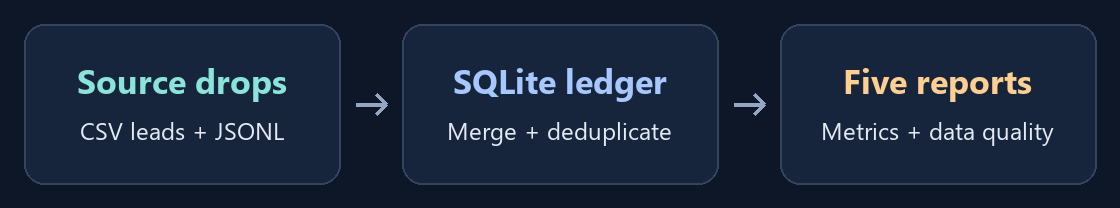
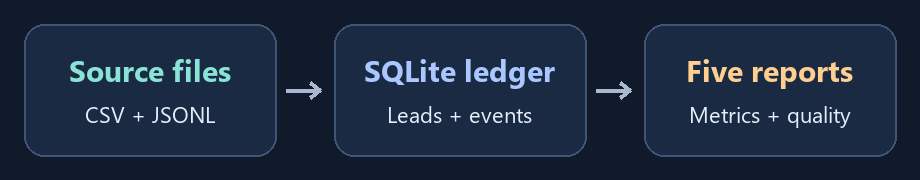
Improve README architecture and center pipeline diagram

diff --git a/README.md b/README.md
@@ -1,81 +1,52 @@
-# Agentic Universe: Junior SDE Take-Home (Data & Workflow)
+# Interaction Ledger & Reporting Pipeline
 
-Thanks for your interest in Agentic Universe. We build AI voice agents for insurers, lenders and
-consumer brands across India and APAC. Our platform has three layers:
+**Agentic Universe · Junior SDE take-home · Assignment A**
 
-- **Data:** leads, call events, dispositions and the interaction ledger that every client report
-  is built on.
-- **Workflow:** campaigns, scheduling, dialling, retries and callbacks, all orchestrated durably.
-- **Application:** dashboards, consoles and APIs.
+Import messy lead CSVs and out-of-order call events into SQLite, then generate five reproducible reports. Built for **Python 3.11+** with the standard library.
 
-This take-home focuses on **data** and **workflow**. **Pick one assignment.** Don't do both.
+<p align="center">
+  <img src="solution/assets/pipeline.png" alt="CSV leads and JSONL call events flow into a SQLite ledger, which produces five reports." width="460">
+</p>
 
-| | Assignment | You'll mostly be doing |
-|---|---|---|
-| **A** | [Interaction Ledger & Reporting Pipeline](assignment-a-data/README.md) | Messy-data ingestion, schema design, idempotent pipelines, exact metrics |
-| **B** | [Durable Campaign Dispatcher](assignment-b-workflow/README.md) | State machines, idempotency, failure handling, scheduling under constraints |
+[Quick start](#quick-start) · [Report outputs](#report-outputs) · [Design and test results](SUBMISSION.md) · [AI disclosure](AI_USAGE.md)
 
-Both are judged on the same bar. Pick the one that excites you more.
+## Quick start
 
-## Ground rules
+From the repository root, run this PowerShell demo against a fresh database. [Bash instructions](SUBMISSION.md#how-to-run) are also available.
 
-- **Time box:** plan for about **6–8 focused hours**. You have **72 hours** from when you receive
-  this. We know you have a life. If you run out of time, stop and tell us in `SUBMISSION.md`
-  what you'd do next. A well-explained partial solution beats a rushed complete one.
-- **Language:** Python 3.11+. Use any libraries you like; list them in `requirements.txt`.
-- **AI tools** (Claude, Cursor, Copilot, ChatGPT...) are **allowed**, as they would be on the
-  job. You must fill in [`AI_USAGE.md`](AI_USAGE.md) honestly. In the follow-up interview we'll
-  ask you to walk through your code and change it live. Submit only code you understand and can
-  defend.
-- **Ambiguity is intentional in places.** When the spec doesn't decide something, make a
-  reasonable call and write it down in `SUBMISSION.md`. Don't wait for an answer from us.
-- **Synthetic data only.** Everything here is generated. No real customer data is involved.
-
-## Getting started
-
-```bash
-python -m venv .venv && source .venv/bin/activate
-pip install -r requirements.txt
-# then follow your chosen assignment's README
+```powershell
+python assignment-a-data/tools/generate_data.py --seed 42 --scale small --out data
+$env:LEDGER_HMAC_KEY = python -c "import secrets; print(secrets.token_hex(32))"
+python -m solution --db demo.sqlite3 ingest data/drop_1 data/drop_2
+python -m solution --db demo.sqlite3 report --out reports
+python -m unittest discover -v
 ```
 
-`docker-compose.yml` starts a local Postgres if you want one (`docker compose up -d`). SQLite
-is equally acceptable.
+Reuse the same key for future imports into this database. The report command can run without the key.
 
-## What to submit
+## Architecture
 
-1. Push your work to a **private** GitHub or GitLab repository. Start from this repo and keep
-   its structure. Put your code in `solution/` (or a similar top-level folder) and keep the
-   original files unmodified.
-2. Your repo must include:
-   - `SUBMISSION.md`: fill in the template provided
-   - `AI_USAGE.md`: fill in the template provided
-   - Exact setup and run commands that work from a clean clone
-   - Tests, runnable with one command (for example `pytest`)
-3. Give read access to **`[[REVIEWER_HANDLES]]`** and email the repo link to
-   **`[[SUBMISSION_EMAIL]]`** before the deadline.
+| Stage | Responsibility |
+| :--- | :--- |
+| **Validate inputs** | Resolve CSV headers against the workflow schema, normalize values and record rejected rows. |
+| **Persist in SQLite** | Merge leads by workflow and keyed phone identity. Store each event ID once in the append-only ledger. Commit the drop and its counters together. |
+| **Resolve call history** | Match events against the current lead set. Later drops can resolve earlier orphans. Valid supervisor overrides take precedence over automated dispositions. |
+| **Build reports** | Read one consistent snapshot and derive batch, daily and lead metrics alongside rejection and quality outputs. |
 
-Please **don't** publish your solution publicly, and **don't** commit generated data, `.env`
-files, or databases.
+**Privacy and replay.** SQLite stores keyed hashes for names and phone identities. The lead report uses a masked phone number. An exact drop replay leaves the database unchanged.
 
-## What happens next
+## Report outputs
 
-If your submission clears the bar, we'll schedule a **45-minute technical conversation**:
+| File | What it shows |
+| --- | --- |
+| `batch_summary.csv` | Lead counts by batch and progress bucket |
+| `daily_overview.csv` | Daily call volume, connectivity and distinct successful leads in IST |
+| `lead_report.csv` | Masked lead-level call history summary and effective disposition |
+| `rejections.csv` | Row-level rejection reasons without raw lead values |
+| `data_quality.json` | Ingestion totals, duplicates, warnings and unresolved events |
 
-- 15 min: you walk us through your design and the decisions in `SUBMISSION.md`
-- 20 min: we change a requirement and you extend your code live (AI tools allowed; screen
-  share)
-- 10 min: your questions for us
+## Verification
 
-## What we look for
+Five automated tests cover validation, disposition priority, lead buckets, replay, rollback and checks for plaintext PII. On synthetic seeds **42** and **137**, separate and combined imports produced byte-identical reports. Replaying the drops left the database bytes unchanged.
 
-| Signal | What good looks like |
-|---|---|
-| Correctness | It produces the right answer on data and seeds you haven't seen |
-| Robustness | It behaves sensibly when inputs are dirty, things fail, or it's run twice |
-| Design | Clear data and state model; you can explain why it's safe |
-| Code quality | Readable, organised, tested where it matters |
-| Communication | Honest about trade-offs, assumptions and what's missing |
-| Ownership | You made decisions instead of waiting to be told |
-
-Good luck. We're looking forward to reading your work.
+[Source code](solution/) · [Assignment specification](assignment-a-data/README.md) · [Original repository instructions](docs/UPSTREAM_README.md)

diff --git a/docs/UPSTREAM_README.md b/docs/UPSTREAM_README.md
@@ -1,0 +1,81 @@
+# Agentic Universe: Junior SDE Take-Home (Data & Workflow)
+
+Thanks for your interest in Agentic Universe. We build AI voice agents for insurers, lenders and
+consumer brands across India and APAC. Our platform has three layers:
+
+- **Data:** leads, call events, dispositions and the interaction ledger that every client report
+  is built on.
+- **Workflow:** campaigns, scheduling, dialling, retries and callbacks, all orchestrated durably.
+- **Application:** dashboards, consoles and APIs.
+
+This take-home focuses on **data** and **workflow**. **Pick one assignment.** Don't do both.
+
+| | Assignment | You'll mostly be doing |
+|---|---|---|
+| **A** | [Interaction Ledger & Reporting Pipeline](assignment-a-data/README.md) | Messy-data ingestion, schema design, idempotent pipelines, exact metrics |
+| **B** | [Durable Campaign Dispatcher](assignment-b-workflow/README.md) | State machines, idempotency, failure handling, scheduling under constraints |
+
+Both are judged on the same bar. Pick the one that excites you more.
+
+## Ground rules
+
+- **Time box:** plan for about **6–8 focused hours**. You have **72 hours** from when you receive
+  this. We know you have a life. If you run out of time, stop and tell us in `SUBMISSION.md`
+  what you'd do next. A well-explained partial solution beats a rushed complete one.
+- **Language:** Python 3.11+. Use any libraries you like; list them in `requirements.txt`.
+- **AI tools** (Claude, Cursor, Copilot, ChatGPT...) are **allowed**, as they would be on the
+  job. You must fill in [`AI_USAGE.md`](AI_USAGE.md) honestly. In the follow-up interview we'll
+  ask you to walk through your code and change it live. Submit only code you understand and can
+  defend.
+- **Ambiguity is intentional in places.** When the spec doesn't decide something, make a
+  reasonable call and write it down in `SUBMISSION.md`. Don't wait for an answer from us.
+- **Synthetic data only.** Everything here is generated. No real customer data is involved.
+
+## Getting started
+
+```bash
+python -m venv .venv && source .venv/bin/activate
+pip install -r requirements.txt
+# then follow your chosen assignment's README
+```
+
+`docker-compose.yml` starts a local Postgres if you want one (`docker compose up -d`). SQLite
+is equally acceptable.
+
+## What to submit
+
+1. Push your work to a **private** GitHub or GitLab repository. Start from this repo and keep
+   its structure. Put your code in `solution/` (or a similar top-level folder) and keep the
+   original files unmodified.
+2. Your repo must include:
+   - `SUBMISSION.md`: fill in the template provided
+   - `AI_USAGE.md`: fill in the template provided
+   - Exact setup and run commands that work from a clean clone
+   - Tests, runnable with one command (for example `pytest`)
+3. Give read access to **`[[REVIEWER_HANDLES]]`** and email the repo link to
+   **`[[SUBMISSION_EMAIL]]`** before the deadline.
+
+Please **don't** publish your solution publicly, and **don't** commit generated data, `.env`
+files, or databases.
+
+## What happens next
+
+If your submission clears the bar, we'll schedule a **45-minute technical conversation**:
+
+- 15 min: you walk us through your design and the decisions in `SUBMISSION.md`
+- 20 min: we change a requirement and you extend your code live (AI tools allowed; screen
+  share)
+- 10 min: your questions for us
+
+## What we look for
+
+| Signal | What good looks like |
+|---|---|
+| Correctness | It produces the right answer on data and seeds you haven't seen |
+| Robustness | It behaves sensibly when inputs are dirty, things fail, or it's run twice |
+| Design | Clear data and state model; you can explain why it's safe |
+| Code quality | Readable, organised, tested where it matters |
+| Communication | Honest about trade-offs, assumptions and what's missing |
+| Ownership | You made decisions instead of waiting to be told |
+
+Good luck. We're looking forward to reading your work.

diff --git a/solution/README.md b/solution/README.md
@@ -1,6 +1,6 @@
 # Assignment A solution
 
-See the [project overview and quick start](../.github/README.md) for the pipeline diagram and run commands.
+See the [project overview and quick start](../README.md) for the pipeline diagram and run commands.
 
 | Module | Responsibility |
 | --- | --- |
